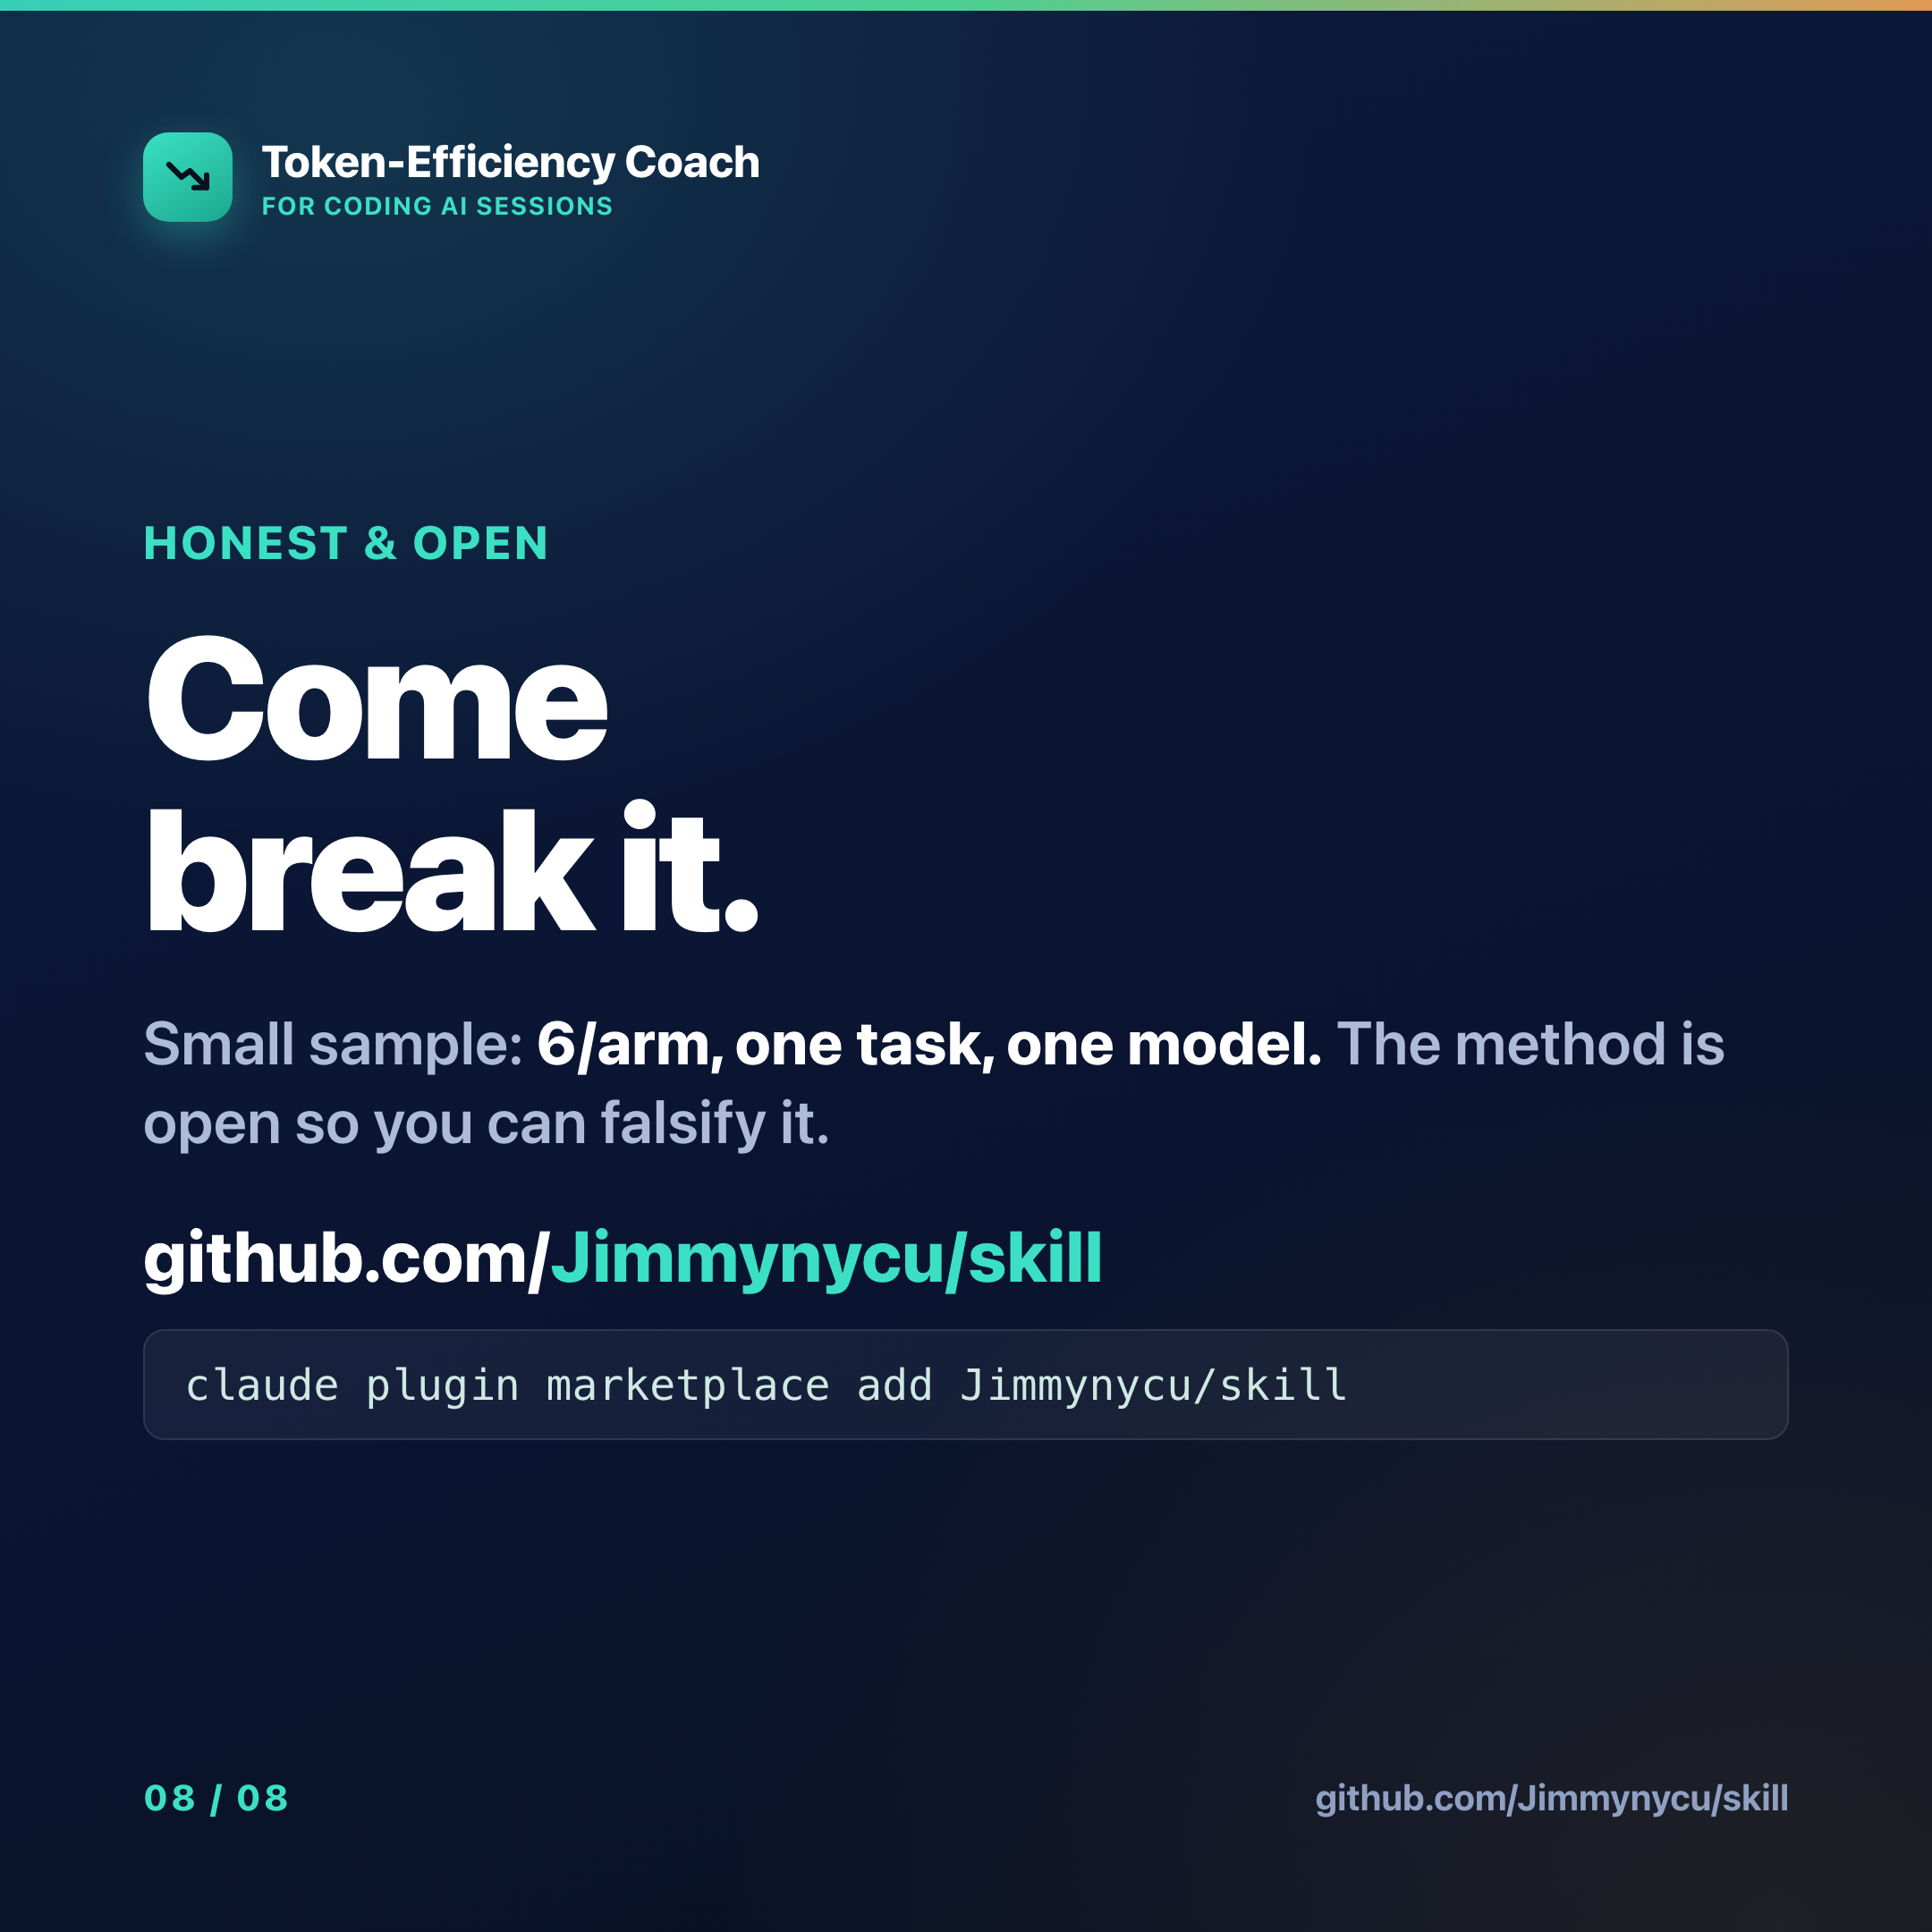
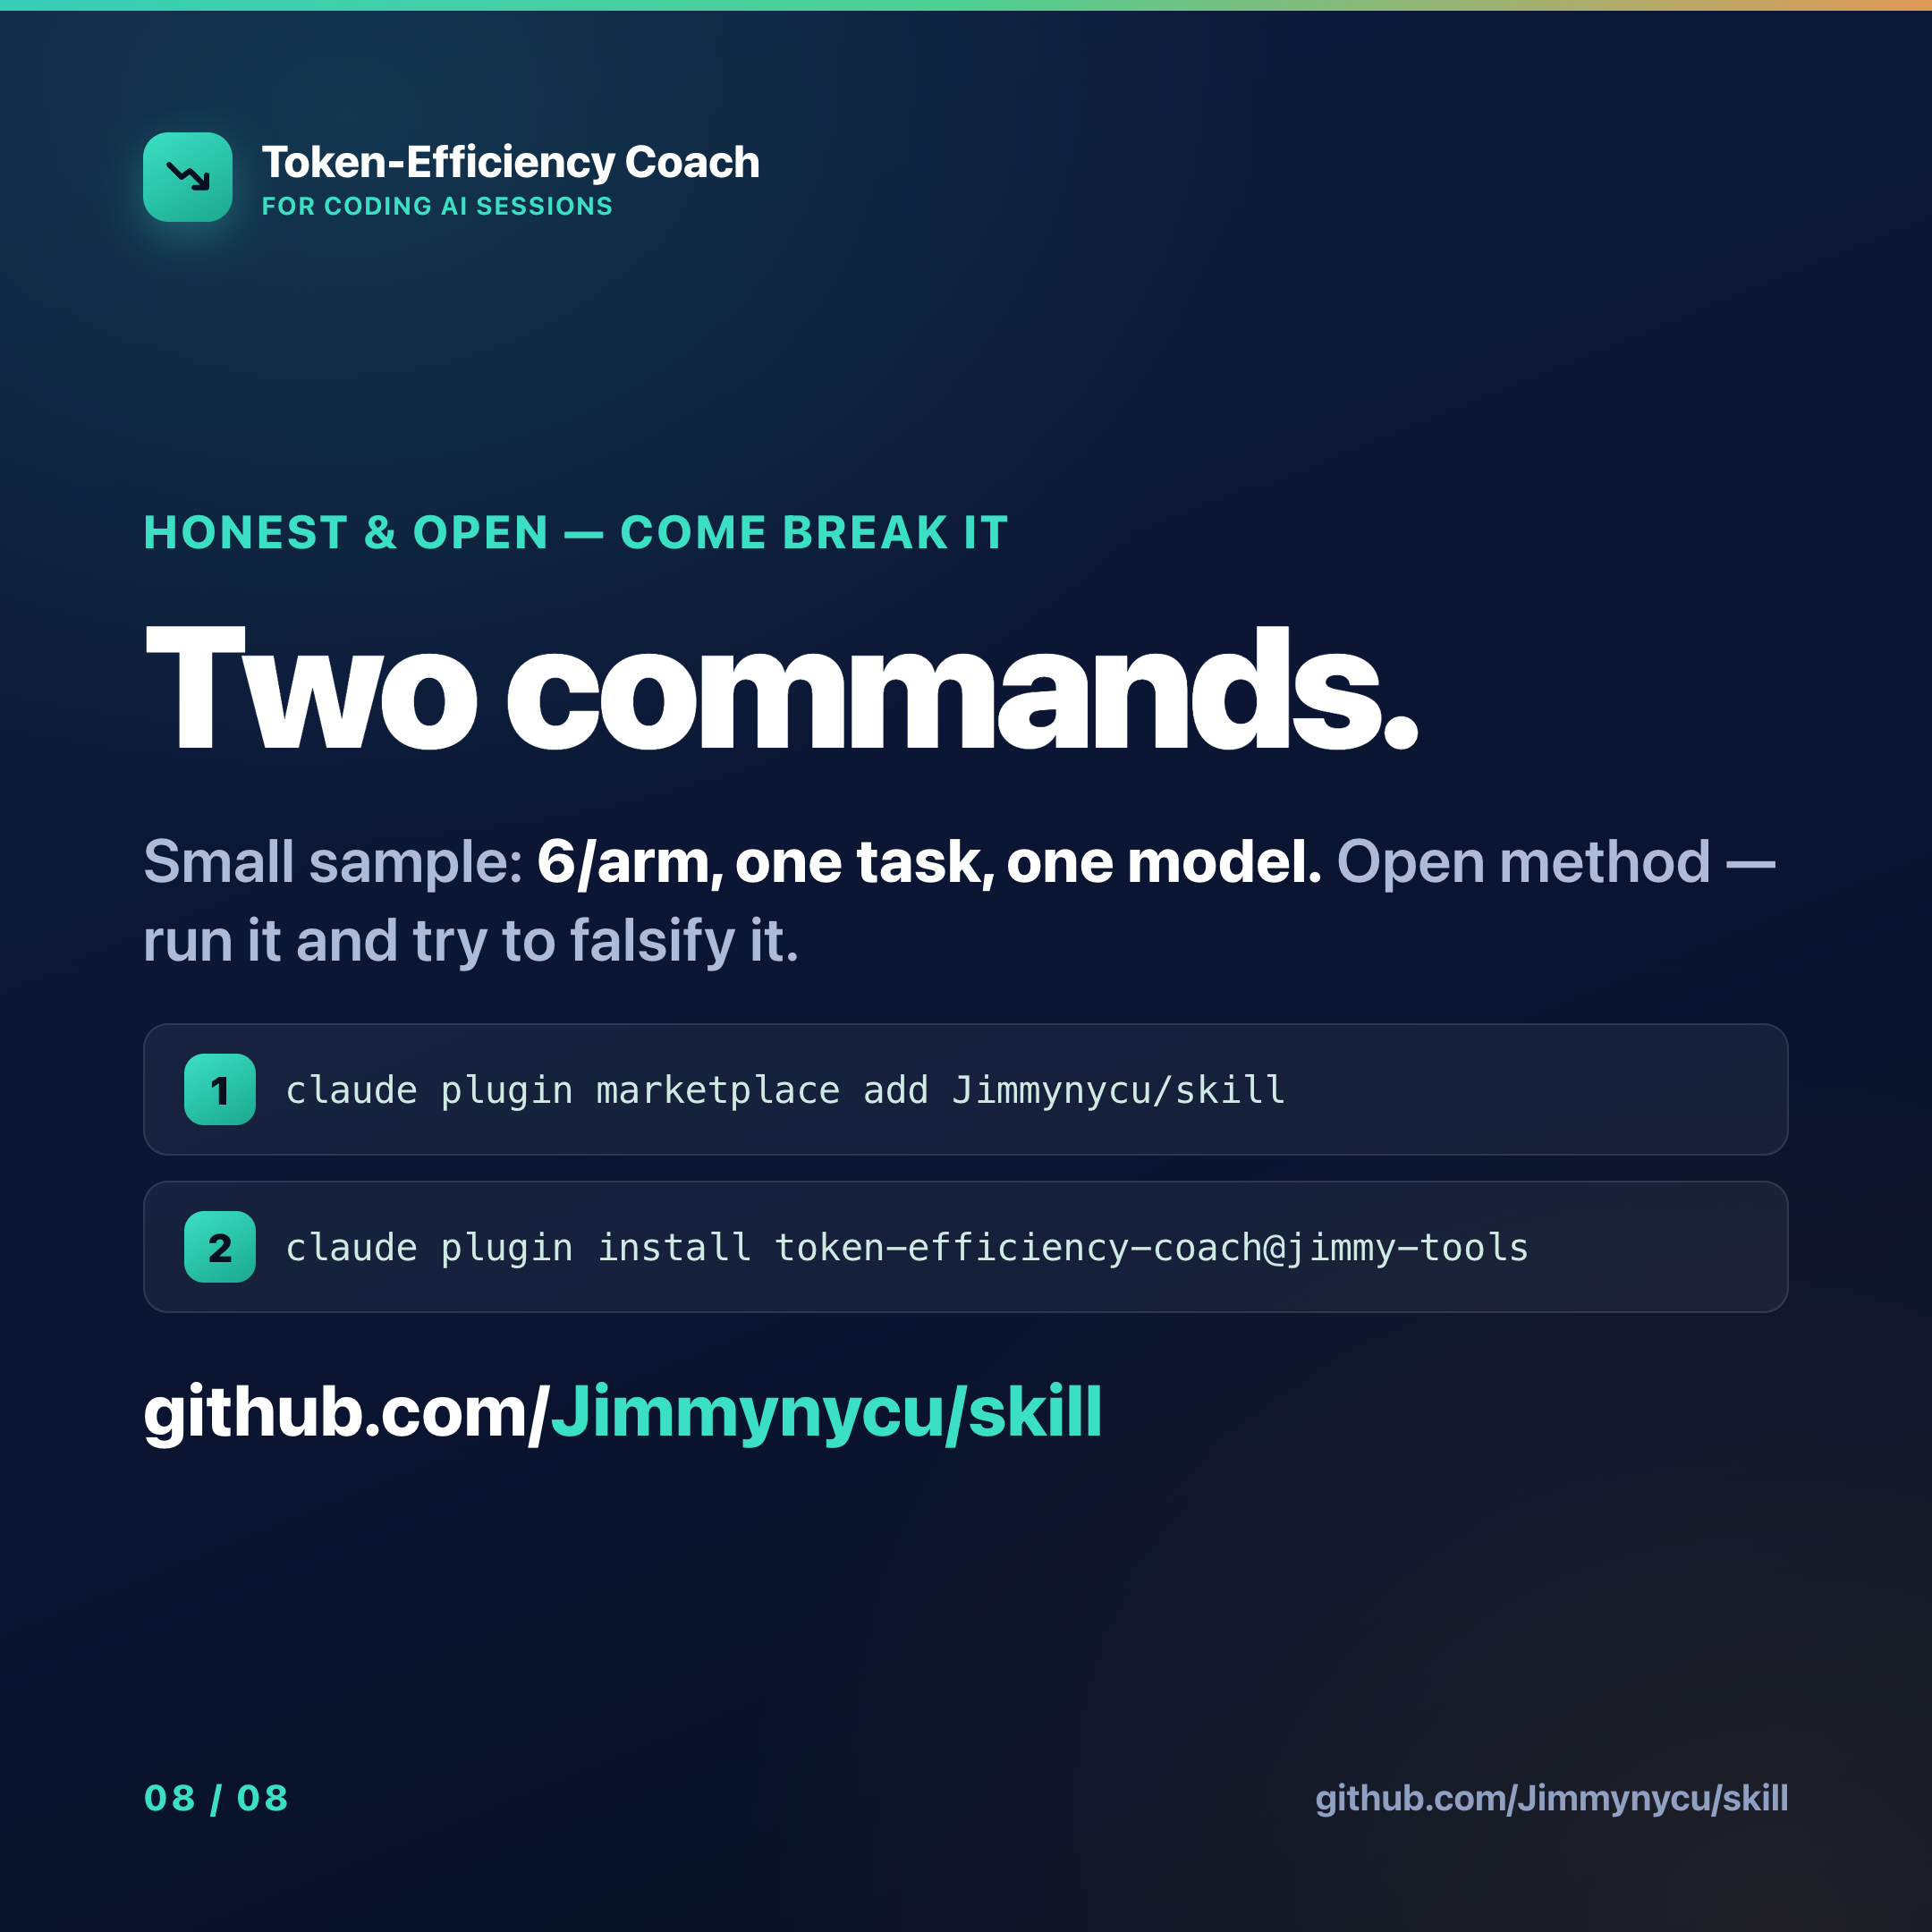
Fix install across all surfaces + close the discoverability gap
Install (was self-contradicting across 3 places):
- Carousel slide 8 now shows BOTH commands (Step 1 marketplace add,
  Step 2 plugin install); regenerated 08.png + carousel.html (now has
  copyable install text). README caption "one line" -> "two commands".
- Root README: Quickstart -> "Install", adds the interactive /plugin path.
- Plugin README: drop the stale ./token-efficiency-marketplace local path
  (dir never existed in the published layout) -> Jimmynycu/skill; fix the
  validate path; bump statusline cache path 1.0.0 -> 1.0.1.

Discoverability / presentation:
- assets/og.png — custom 1280x640 social-preview card (upload via Settings).
- marketplace.json — add category + keywords.
- README — above-the-fold metrics strip, dynamic stars/release badges, ToC,
  "zero added context overhead" differentiator.
- Reconcile waste-pattern count to 8 (engine truth) in both READMEs.

claude plugin validate --strict: passed.

diff --git a/carousel.html b/carousel.html
@@ -8,6 +8,9 @@
  .track{display:flex;overflow-x:auto;scroll-snap-type:x mandatory;gap:16px;padding-bottom:14px}
  .track img{width:92%;flex:0 0 92%;scroll-snap-align:center;border-radius:16px;border:1px solid rgba(255,255,255,.1)}
  p{font-size:14px;color:#8fa0c2}
+ .inst{margin-top:18px;background:#0d1b3e;border:1px solid rgba(59,224,196,.3);border-radius:14px;padding:14px 18px}
+ .inst b{color:#3be0c4;font-size:14px;display:block;margin-bottom:8px}
+ .inst pre{margin:0;white-space:pre-wrap;word-break:break-all;font-family:ui-monospace,Menlo,monospace;font-size:13px;color:#cfe9e3;line-height:1.8}
 </style></head><body><div class="wrap">
 <h1>&larr; swipe &rarr;</h1>
 <div class="track">
@@ -20,5 +23,7 @@
 <img src="assets/slides/07.png" alt="slide 7">
 <img src="assets/slides/08.png" alt="slide 8">
 </div>
-<p>Open carousel.html for the swipeable deck, or scroll the README for the same slides.</p>
+<div class="inst"><b>Install &mdash; two commands</b><pre>claude plugin marketplace add Jimmynycu/skill
+claude plugin install token-efficiency-coach@jimmy-tools</pre></div>
+<p>Scroll the README for the same slides &middot; repo: github.com/Jimmynycu/skill</p>
 </div></body></html>

diff --git a/README.md b/README.md
@@ -8,6 +8,8 @@
   <img alt="Token-first" src="https://img.shields.io/badge/metric-token--first-ffcb3b?style=flat-square">
   <img alt="Tested: live A/B" src="https://img.shields.io/badge/tested-live%20A%2FB-54e39b?style=flat-square">
   <img alt="Runs locally" src="https://img.shields.io/badge/privacy-runs%20locally-3be0c4?style=flat-square">
+  <a href="https://github.com/Jimmynycu/skill/stargazers"><img alt="GitHub stars" src="https://img.shields.io/github/stars/Jimmynycu/skill?style=flat-square&color=3be0c4"></a>
+  <a href="https://github.com/Jimmynycu/skill/releases"><img alt="Latest release" src="https://img.shields.io/github/v/release/Jimmynycu/skill?style=flat-square&color=54e39b"></a>
 </p>
 
 <p align="center">
@@ -18,21 +20,39 @@
   It flags <i>waste</i>, never quality. It runs on your machine. It speaks tokens, not dollars.
 </p>
 
+<p align="center">
+  <b>&minus;45% tokens&nbsp;&nbsp;·&nbsp;&nbsp;&minus;44% turns&nbsp;&nbsp;·&nbsp;&nbsp;4/6 → 6/6 correct</b><br>
+  <sub>measured in a live A/B — 6 sessions per arm, 12 total &nbsp;·&nbsp; <a href="#numbers">see the method ↓</a></sub><br>
+  <sub>Runs as an external local engine — <b>zero added context overhead</b> in your own session.</sub>
+</p>
+
+<p align="center">
+  <a href="#install">Install</a> &nbsp;·&nbsp;
+  <a href="#what-it-catches">What it catches</a> &nbsp;·&nbsp;
+  <a href="#numbers">Numbers</a> &nbsp;·&nbsp;
+  <a href="#the-story-in-8-slides">The story</a> &nbsp;·&nbsp;
+  <a href="#how-it-works">How it works</a> &nbsp;·&nbsp;
+  <a href="#faq">FAQ</a>
+</p>
+
 ---
 
-## Quickstart (about a minute)
+## Install
 
-Two commands. The first adds the **`jimmy-tools`** marketplace from this repo (`Jimmynycu/skill`); the second installs the plugin from it. The `@jimmy-tools` handle is the marketplace name declared in [`.claude-plugin/marketplace.json`](.claude-plugin/marketplace.json) — copy both lines exactly.
+**About a minute. Two commands.** The first adds the **`jimmy-tools`** marketplace from this repo (`Jimmynycu/skill`); the second installs the plugin from it. The `@jimmy-tools` handle is the marketplace name declared in [`.claude-plugin/marketplace.json`](.claude-plugin/marketplace.json) — copy **both** lines exactly.
 
 ```sh
 # 1) add the marketplace (registers as: jimmy-tools)
 claude plugin marketplace add Jimmynycu/skill
+
 # 2) install the plugin from that marketplace
 claude plugin install token-efficiency-coach@jimmy-tools
 ```
 
+Prefer the interactive UI? Run `/plugin marketplace add Jimmynycu/skill`, then `/plugin install token-efficiency-coach@jimmy-tools` — or just `/plugin` and pick it from **Discover**.
+
 > [!NOTE]
-> **What "runs locally" means.** The *coach* does all its analysis on your machine — no session content ever leaves. The **install step above is the exception**: `marketplace add` fetches this repo over the network and may ask you to confirm trusting the marketplace before it registers. Once installed, nothing else phones home.
+> **What "runs locally" means.** The *coach* does all its analysis on your machine — no session content ever leaves. The **install step above is the one exception**: `marketplace add` fetches this repo over the network and may ask you to confirm trusting the marketplace before it registers. Once installed, nothing else phones home.
 
 > [!TIP]
 > **What you get, immediately:** a live token-first statusline (`ctx tokens · cache% · ⚠`), an automatic non-blocking coach that summarizes waste when a session ends, and an on-demand `/token-efficiency-coach:coach` you can run any time.
@@ -43,14 +63,16 @@ That's it. No API keys, no account. The coach reads your local session and talks
 
 ## What it catches
 
-The coach scans a session for **waste** — the tokens you paid for and didn't need. It does **not** grade whether your code or answers were "good." Six things it flags:
+The coach scans a session for **waste** — the tokens you paid for and didn't need. It does **not** grade whether your code or answers were "good." Eight things it flags:
 
 - **Context bloat** — the window quietly ballooning turn over turn
 - **Uncached context** — paying full freight for context that could have been cached
 - **Oversized tool output** — a single tool dumping a wall of tokens into the window
+- **Output-heavy turns** — generation spend that ran hotter than the task needed
 - **Failed tool calls** — errors you paid to send and paid to read
 - **Wrong-tier routing** — a heavyweight model doing featherweight work
 - **Redundant reads** — re-reading the same file the model already has
+- **Very long single thread** — one sprawling session that never compacted or split
 
 > [!NOTE]
 > Every flag is a **token** flag. The coach never says "your code is bad." It says "this part cost more than it had to, here's the cheaper path."
@@ -118,7 +140,7 @@ The whole arc — why I almost killed this project, the experiment, and the one 
 
 <p align="center"><img src="assets/slides/08.png" alt="Come break it: small sample, open method, one-line install." width="62%"></p>
 
-> **8 —** Come break it: small sample, open method — so you can falsify it. Install is one line.
+> **8 —** Come break it: small sample, open method — so you can falsify it. Install is **two commands**.
 
 ---
 

diff --git a/plugins/token-efficiency-coach/README.md b/plugins/token-efficiency-coach/README.md
@@ -4,8 +4,9 @@ A Claude Code **plugin** that shows exactly where a session wasted tokens — an
 fix it. It runs locally and reads your own session log, so **no prompt ever leaves your
 machine.**
 
-It flags *waste* (uncached context, context bloat, oversized tool output, failed tool
-calls, output-heavy turns, wrong-tier routing, redundant reads), **not** *quality*.
+It flags *waste* (uncached context, context bloat, oversized tool output, output-heavy
+turns, failed tool calls, wrong-tier routing, redundant reads, very long single thread) —
+eight patterns in all, **not** *quality*.
 There is no score, no ranking, no judgment — just "here's what cost you, here's the fix."
 
 The plugin ships three surfaces, all backed by **one engine** (`scripts/analyze.py`):
@@ -20,22 +21,24 @@ The plugin ships three surfaces, all backed by **one engine** (`scripts/analyze.
 
 ## Install
 
-This plugin is distributed through the **`jimmy-tools`** marketplace (the
-`token-efficiency-marketplace/` directory one level up from this plugin).
+This plugin is distributed through the **`jimmy-tools`** marketplace, whose manifest lives
+at the repo root ([`.claude-plugin/marketplace.json`](../../.claude-plugin/marketplace.json)).
 
 ```bash
-# 1) Add the marketplace (local path, or <owner>/<repo> for GitHub)
-claude plugin marketplace add ./token-efficiency-marketplace
+# 1) Add the marketplace from GitHub (registers as: jimmy-tools)
+claude plugin marketplace add Jimmynycu/skill
 
-# 2) Install the plugin
+# 2) Install the plugin from that marketplace
 claude plugin install token-efficiency-coach@jimmy-tools
 ```
 
-Validate before publishing:
+Developing from a local clone instead? Point `marketplace add` at the repo root
+(`claude plugin marketplace add .`), then install the same way.
+
+Validate before publishing (run from the repo root):
 
 ```bash
-claude plugin validate ./token-efficiency-coach --strict
-claude plugin validate ./token-efficiency-marketplace
+claude plugin validate ./plugins/token-efficiency-coach --strict
 ```
 
 The hooks (and the statusline, once wired) execute shell commands, so Claude Code will
@@ -112,7 +115,7 @@ every update. So copy (or symlink) the script to a stable location and point at 
 ```bash
 # Copy the shipped statusline to a stable path (re-copy after a plugin update):
 cp "$(claude plugin path token-efficiency-coach 2>/dev/null || \
-      echo "$HOME/.claude/plugins/cache/token-efficiency-coach@jimmy-tools/1.0.0")/scripts/statusline.py" \
+      echo "$HOME/.claude/plugins/cache/token-efficiency-coach@jimmy-tools/1.0.1")/scripts/statusline.py" \
    "$HOME/.claude/statusline-token-coach.py"
 ```
 